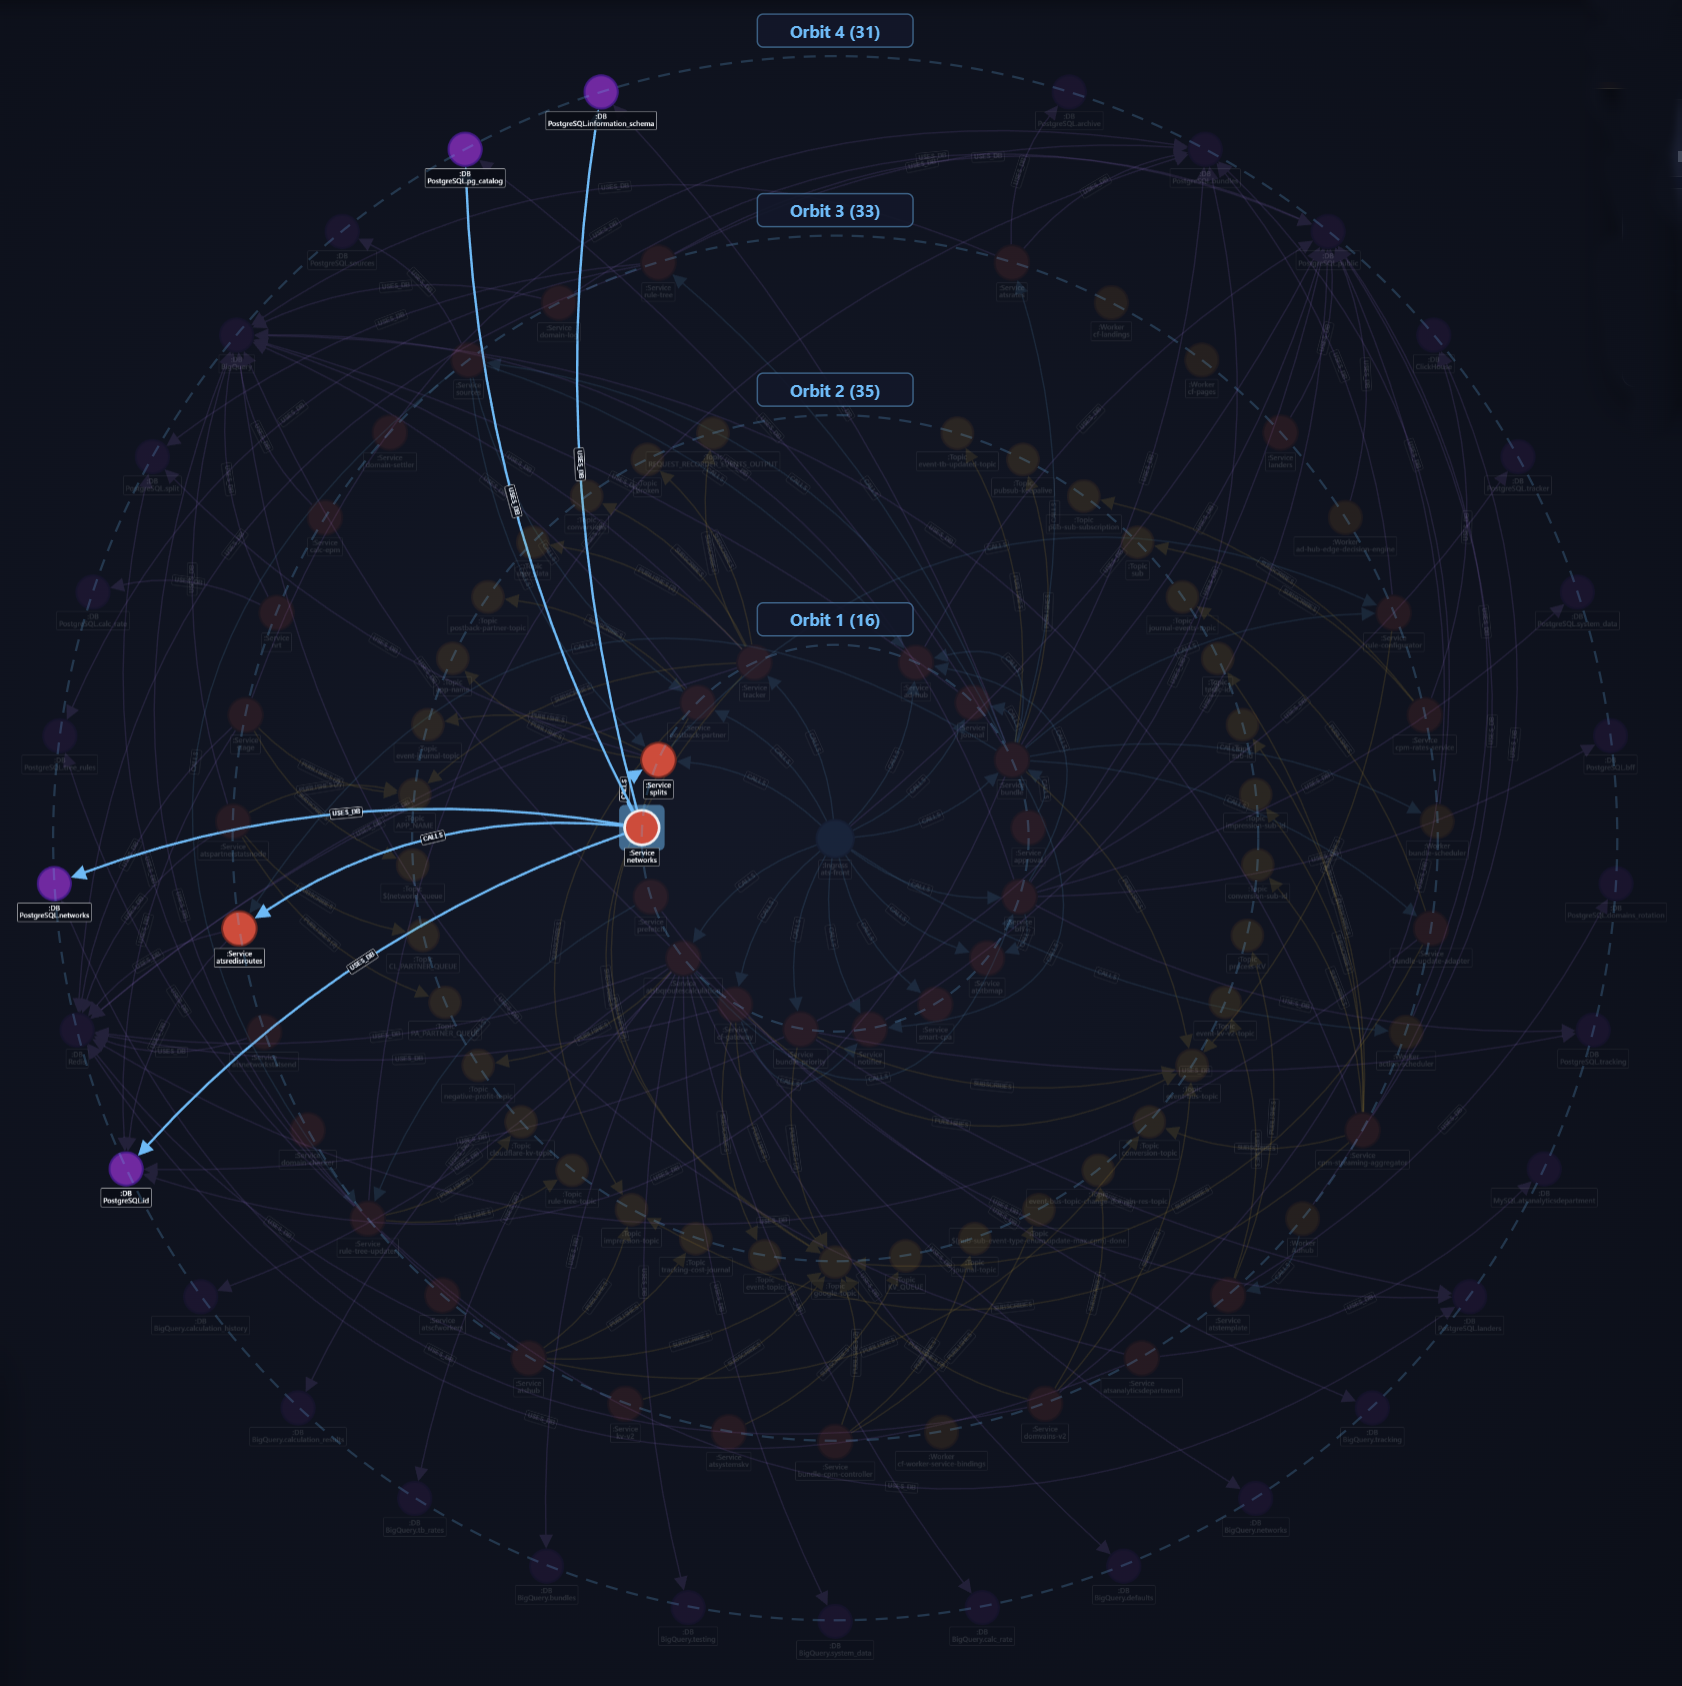
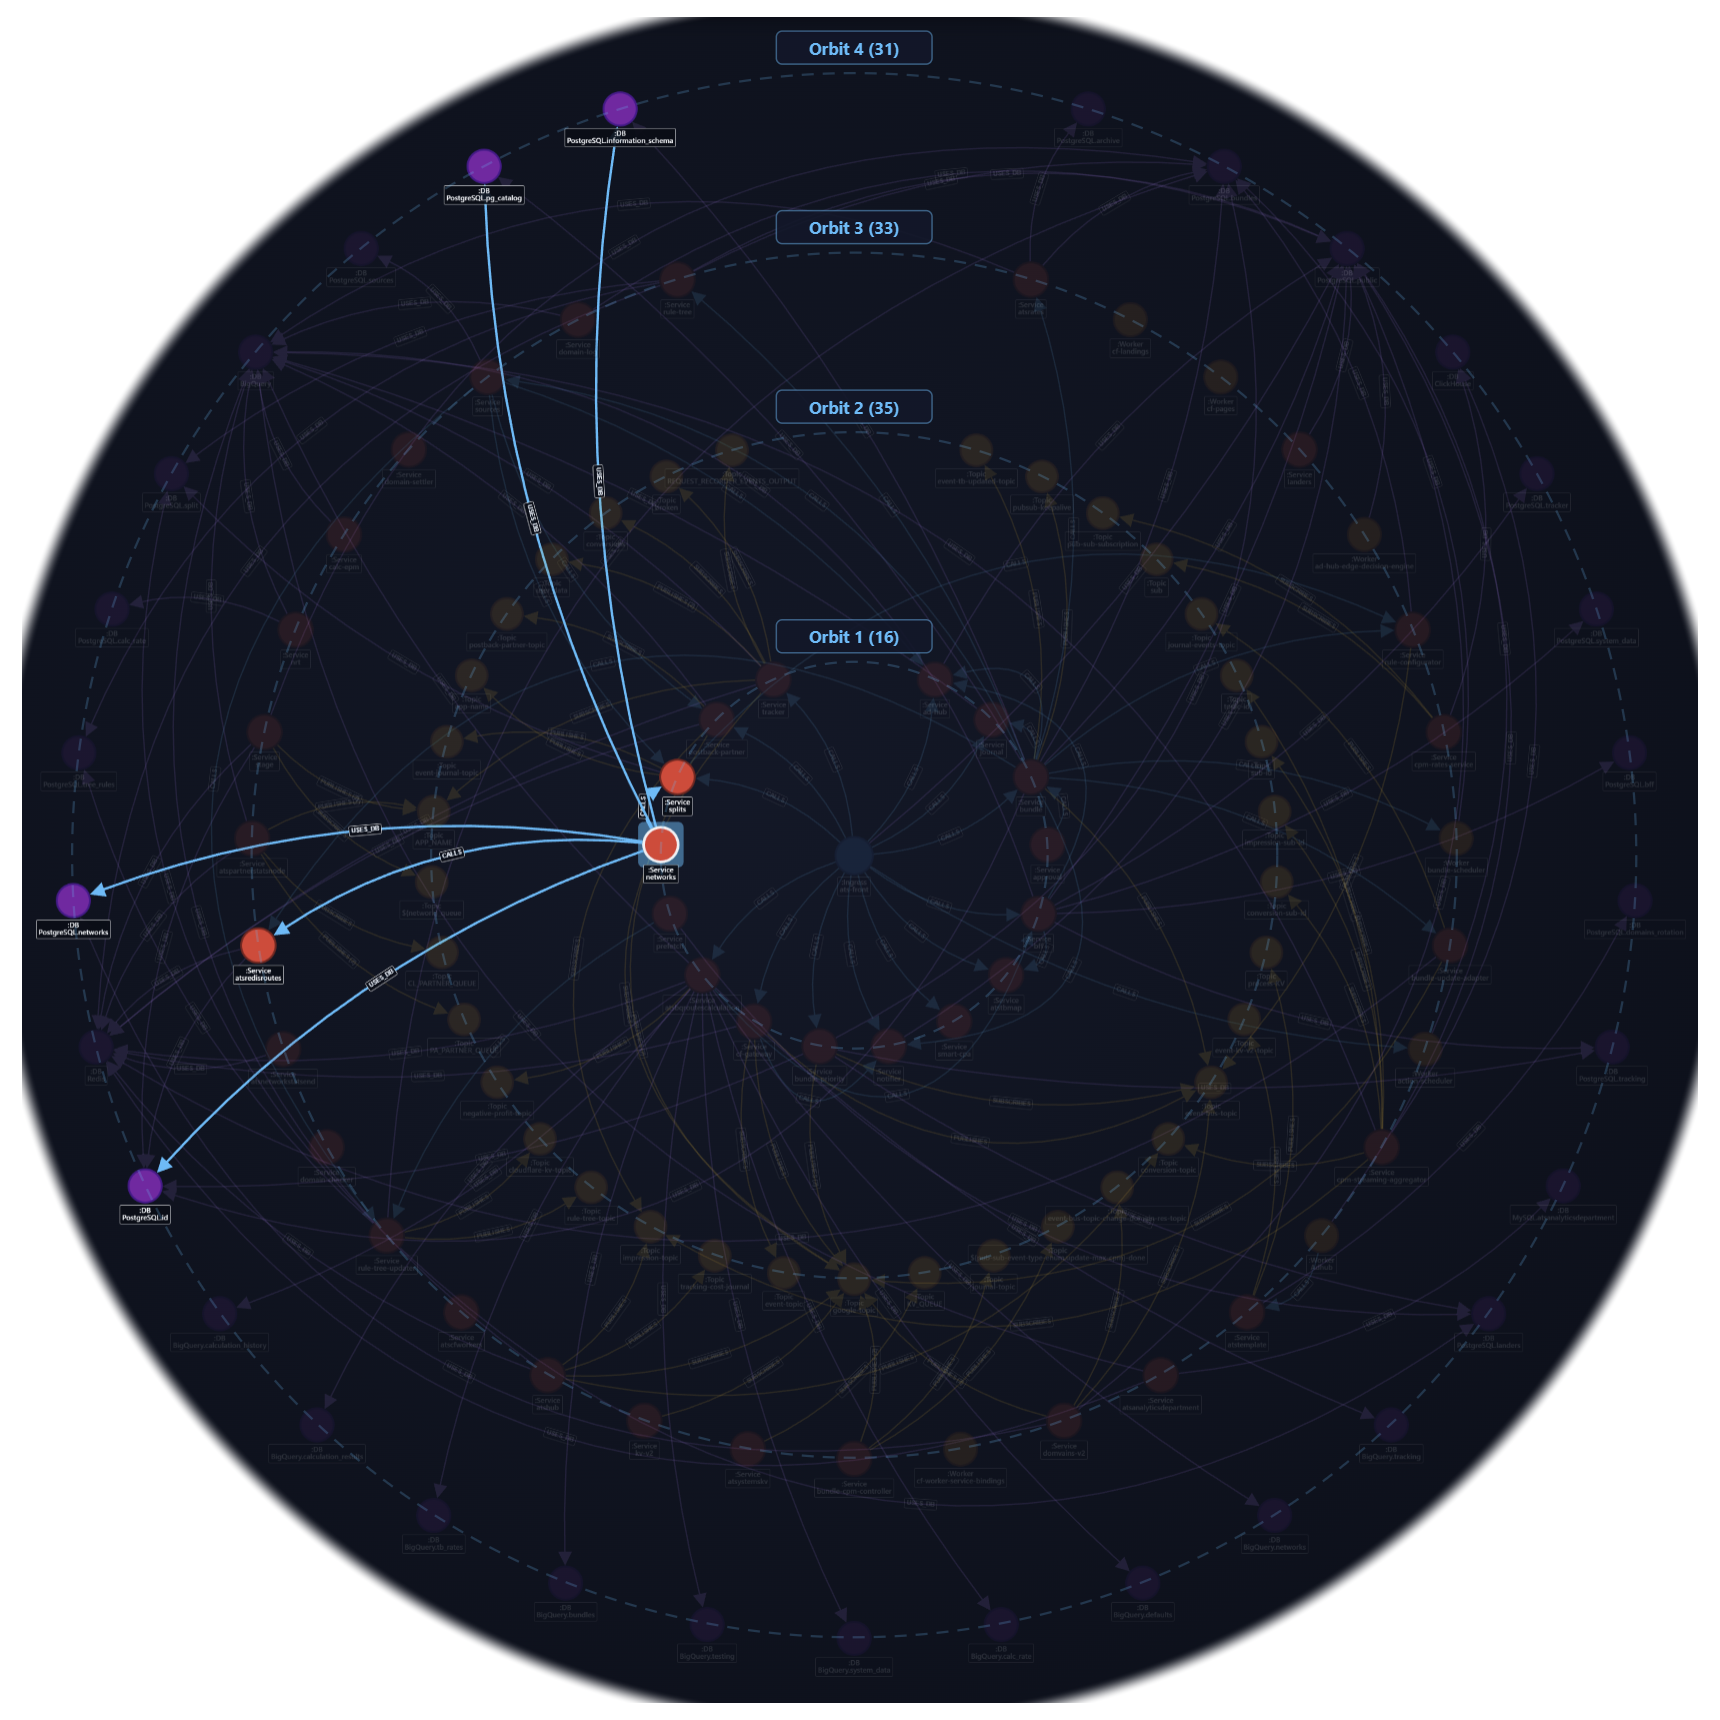
fix(showcase): perfectly match canvas edge and alpha to container #0d101b with zero pixel delta

diff --git a/site/index.html b/site/index.html
@@ -1939,7 +1939,7 @@
 
         <div class="showcase-body">
           <div class="showcase-img-container" onclick="openLightbox()">
-            <img id="showcaseImage" class="showcase-img" src="all_services.png?v=v4" alt="CodeExplorer Macro Architecture Concentric Orbits">
+            <img id="showcaseImage" class="showcase-img" src="all_services.png?v=v5" alt="CodeExplorer Macro Architecture Concentric Orbits">
           </div>
 
           <div class="showcase-overlay-bar">
@@ -1960,7 +1960,7 @@
   <!-- Lightbox Modal for zooming screenshots -->
   <div id="lightboxModal" class="lightbox-modal" onclick="closeLightbox(event)">
     <button class="lightbox-close" onclick="closeLightbox()">&times;</button>
-    <img id="lightboxImg" class="lightbox-content" src="all_services.png?v=v4" alt="Enlarged Screenshot">
+    <img id="lightboxImg" class="lightbox-content" src="all_services.png?v=v5" alt="Enlarged Screenshot">
   </div>
 
   <!-- ==========================================================================
@@ -2940,12 +2940,12 @@
     // Data for Showcase Tabs
     const showcaseData = {
       orbits: {
-        img: 'all_services.png?v=v4',
+        img: 'all_services.png?v=v5',
         desc: '<strong>Macro Architecture Topology:</strong> Concentric rings project Ingress Gateways (Tier 0), Public APIs (Tier 1), Brokers (Tier 2), Domain Services (Tier 3), and Databases (Tier 4).',
         pills: ['Live Transitive Routing', 'Orbit Drag-and-Drop', 'Curvature: +65']
       },
       transitive: {
-        img: 'selected_services.png?v=v4',
+        img: 'selected_services.png?v=v5',
         desc: '<strong>Sub-Graph Neighborhood & Broker Contraction:</strong> Filter out Kafka/SQS message brokers to automatically synthesize direct dashed <code>[SUBSCRIBES (via Topic)]</code> links.',
         pills: ['Smart Broker Contraction', 'HUD Category Filters', 'Depth: 2 Hops']
       },
